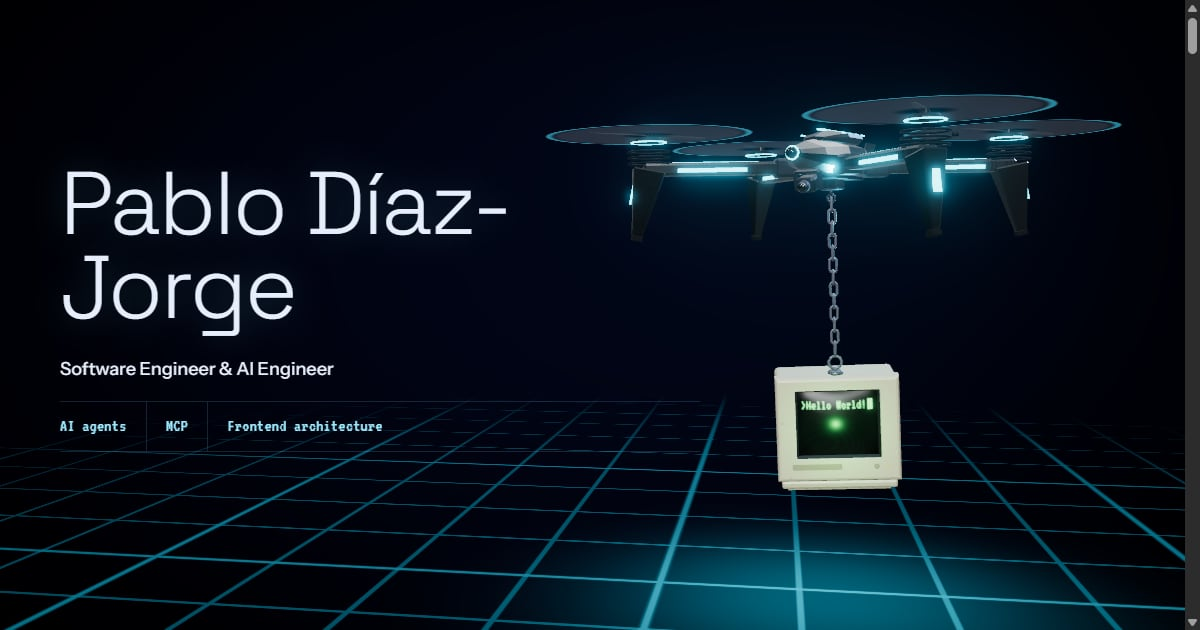
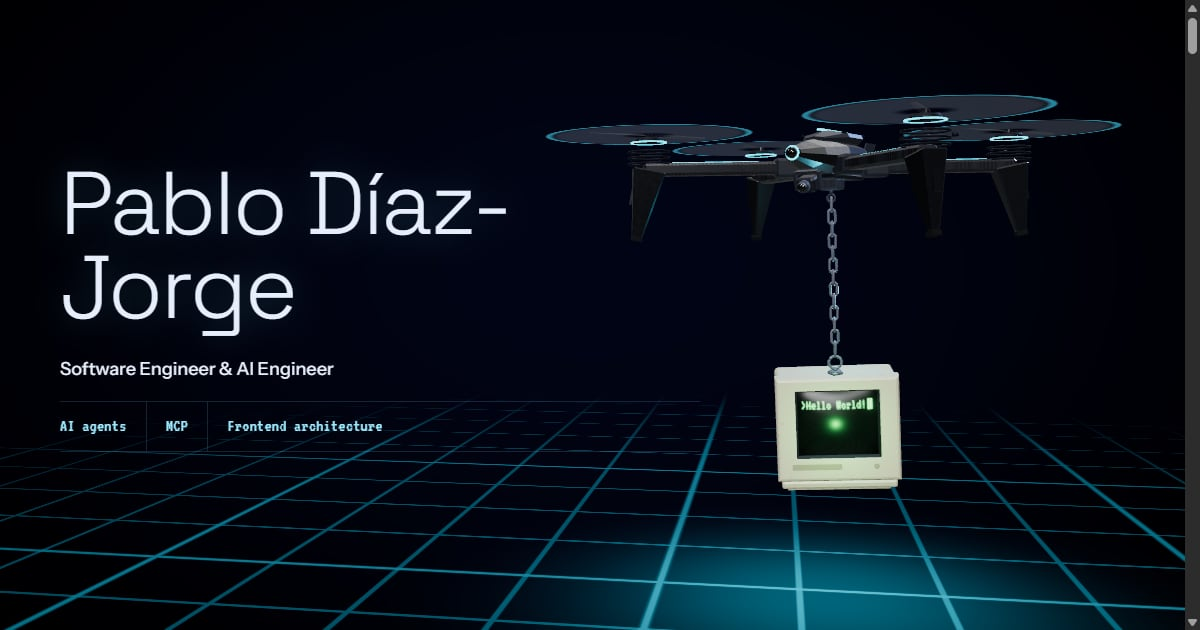
style(aeris): fewer lights on the drone and a matter body
- the arms keep one strip on top, the canopy slits, the intakes and the fin panels go dark, and the motor mounts are plain metal

- the remaining lights are dimmer and the bloom softer, the lacquer on the hull and arms is thinner, and the cyan lamp moves below the belly so it no longer flares on the winch

- hub and link images regenerated with the new look

Changed region(s): [[0.4933, 0.1508, 0.8633, 0.3619]]

diff --git a/src/app/landings/aeris/aeris.scene.ts b/src/app/landings/aeris/aeris.scene.ts
@@ -107,7 +107,7 @@ export class AerisScene implements WorldScene {
     rim.position.set(4, 3, -4);
     this.scene.add(key, rim, new THREE.HemisphereLight('#6f86b0', '#0a0d16', 0.35));
     this.scene.add(this.drone, this.monitor);
-    this.droneLight.position.set(0, -0.35, 0.3);
+    this.droneLight.position.set(0, -0.8, 0.25);
     this.drone.add(this.droneLight);
     const segment = CHAIN_LENGTH / (CHAIN_NODES - 1);
     for (let i = 0; i < CHAIN_NODES; i++) {
@@ -211,12 +211,12 @@ export class AerisScene implements WorldScene {
     const p = positionLocal;
     const map = new Map<string, THREE.Material>();
 
-    const body = new THREE.MeshPhysicalNodeMaterial({ color: '#15171c', roughness: 0.34, clearcoat: 1, clearcoatRoughness: 0.1 });
-    body.roughnessNode = float(0.3).add(mx_noise_float(p.mul(40)).mul(0.06));
+    const body = new THREE.MeshPhysicalNodeMaterial({ color: '#15171c', roughness: 0.42, clearcoat: 0.45, clearcoatRoughness: 0.25 });
+    body.roughnessNode = float(0.38).add(mx_noise_float(p.mul(40)).mul(0.06));
     map.set('body', body);
-    map.set('body_light', new THREE.MeshPhysicalNodeMaterial({ color: '#262a33', roughness: 0.4, clearcoat: 0.7, clearcoatRoughness: 0.2 }));
+    map.set('body_light', new THREE.MeshPhysicalNodeMaterial({ color: '#262a33', roughness: 0.48, clearcoat: 0.35, clearcoatRoughness: 0.3 }));
 
-    const carbon = new THREE.MeshPhysicalNodeMaterial({ roughness: 0.42, clearcoat: 1, clearcoatRoughness: 0.12 });
+    const carbon = new THREE.MeshPhysicalNodeMaterial({ roughness: 0.42, clearcoat: 0.5, clearcoatRoughness: 0.25 });
     const weave = p.xz.mul(55);
     const cell = floor(weave.x.add(weave.y));
     const across = fract(weave.x.sub(weave.y).mul(0.5));
@@ -227,13 +227,13 @@ export class AerisScene implements WorldScene {
     carbon.roughnessNode = mix(float(0.5), float(0.3), sheen);
     map.set('carbon', carbon);
 
-    const metal = new THREE.MeshStandardNodeMaterial({ color: '#6e737c', metalness: 1, roughness: 0.4 });
-    metal.roughnessNode = float(0.36).add(mx_noise_float(p.mul(vec2(160, 7).xyx)).mul(0.06));
+    const metal = new THREE.MeshStandardNodeMaterial({ color: '#6e737c', metalness: 1, roughness: 0.5 });
+    metal.roughnessNode = float(0.46).add(mx_noise_float(p.mul(vec2(160, 7).xyx)).mul(0.06));
     map.set('metal', metal);
     map.set('metal_dark', new THREE.MeshStandardNodeMaterial({ color: '#3a3e46', metalness: 0.9, roughness: 0.42 }));
 
     const glow = new THREE.MeshBasicNodeMaterial();
-    glow.colorNode = color(CYAN).mul(2.4).mul(this.uGlow);
+    glow.colorNode = color(CYAN).mul(1.5).mul(this.uGlow);
     map.set('glow', glow);
 
     // the blades spin faster than the eye follows: faint, with the blur disc standing in for them
@@ -432,7 +432,7 @@ export class AerisScene implements WorldScene {
     const scenePass = pass(this.scene, this.camera);
     const sceneColor = scenePass.getTextureNode();
     // only the light strips and the tube glow; the beige plastic stays below the threshold
-    const glow = bloom(sceneColor, this.ctx.quality === 'low' ? 0.35 : 0.5, 0.4, 0.96);
+    const glow = bloom(sceneColor, this.ctx.quality === 'low' ? 0.25 : 0.34, 0.4, 0.96);
     this.pipeline = new THREE.RenderPipeline(this.ctx.renderer, sceneColor.add(glow));
     this.bag.defer(() => {
       glow.dispose();
@@ -533,7 +533,7 @@ export class AerisScene implements WorldScene {
     if (this.gimbal) this.gimbal.rotation.x = -0.35 + Math.sin(elapsed * 0.5) * 0.05;
     // the light strips breathe a little
     this.uGlow.value = reduced ? 1 : 0.9 + 0.1 * Math.sin(elapsed * 2.1);
-    this.droneLight.intensity = 1.2 * this.uGlow.value;
+    this.droneLight.intensity = 0.6 * this.uGlow.value;
     this.uDroneXZ.value.set(drone.position.x, drone.position.z);
     drone.updateMatrixWorld(true);
   }

diff --git a/tools/blender/aeris_drone.py b/tools/blender/aeris_drone.py
@@ -135,17 +135,17 @@ loft(bm, [
     section(0.24, 0.07, 0.03, 0.21),
 ])
 part("canopy", bm, "body_light", root)
-# the glowing spine and the slits along the canopy
+# the glowing spine; the slits along the canopy and the intakes stay dark
 bm = bmesh.new()
 pw.add_box(bm, (0, -0.04, 0.277), (0.028, 0.42, 0.012))
+part("glow_body", bm, "glow", root)
+bm = bmesh.new()
 for sx in (-1, 1):
     for y in (-0.2, -0.1, 0.0, 0.1):
         pw.add_box(bm, (sx * 0.148, y, 0.248), (0.012, 0.05, 0.01))
-# intakes on the hull sides
-for sx in (-1, 1):
     for y in (-0.3, -0.22, -0.14):
         pw.add_box(bm, (sx * 0.192, y, 0.085), (0.012, 0.04, 0.025))
-part("glow_body", bm, "glow", root)
+part("panel_lines", bm, "metal_dark", root)
 # the eye on the nose: a glowing ring round a lens
 bm = bmesh.new()
 ring(bm, (0, 0.553, 0.1), 0.042, 0.007, seg=24, sides=6, plane="XZ")
@@ -188,11 +188,9 @@ for key, (px, py) in PODS.items():
     bmesh.ops.rotate(bm, verts=bm.verts[:], cent=(0, 0, 0), matrix=Matrix.Rotation(angle, 3, "Z"))
     bmesh.ops.translate(bm, verts=bm.verts[:], vec=Vector((sx, sy, 0)))
     part(f"arm_{key}", bm, "carbon", root)
-    # light strips along the top and both sides of the arm
+    # one light strip along the top of the arm
     bm = bmesh.new()
     pw.add_box(bm, (length * 0.52, 0, 0.074), (length * 0.62, 0.03, 0.01))
-    for side in (-1, 1):
-        pw.add_box(bm, (length * 0.55, side * 0.066, 0.02), (length * 0.5, 0.008, 0.028))
     bmesh.ops.rotate(bm, verts=bm.verts[:], cent=(0, 0, 0), matrix=Matrix.Rotation(angle, 3, "Z"))
     bmesh.ops.translate(bm, verts=bm.verts[:], vec=Vector((sx, sy, 0)))
     part(f"glow_arm_{key}", bm, "glow", root)
@@ -223,13 +221,13 @@ for key, (px, py) in PODS.items():
     bmesh.ops.translate(bm, verts=fin, vec=Vector((px, py, 0)))
     bevel_all(bm, 0.01, 1)
     part(f"fin_{key}", bm, "body", root)
-    # a glowing panel on the fin's outer face and a pad at its tip
+    # a dark panel on the fin's outer face and a pad at its tip
     bm = bmesh.new()
     panel = pw.add_box(bm, (0.085, 0, -0.14), (0.012, 0.05, 0.16))
     bmesh.ops.rotate(bm, verts=panel, cent=(0, 0, 0.03), matrix=Matrix.Rotation(math.radians(-11), 3, "Y"))
     bmesh.ops.rotate(bm, verts=panel, cent=(0, 0, 0), matrix=Matrix.Rotation(angle, 3, "Z"))
     bmesh.ops.translate(bm, verts=panel, vec=Vector((px, py, 0)))
-    part(f"glow_fin_{key}", bm, "glow", root)
+    part(f"fin_panel_{key}", bm, "metal_dark", root)
     bm = bmesh.new()
     pad = pw.add_box(bm, (0.0, 0, -0.44), (0.075, 0.06, 0.03))
     bmesh.ops.rotate(bm, verts=pad, cent=(0, 0, 0.03), matrix=Matrix.Rotation(math.radians(-11), 3, "Y"))
